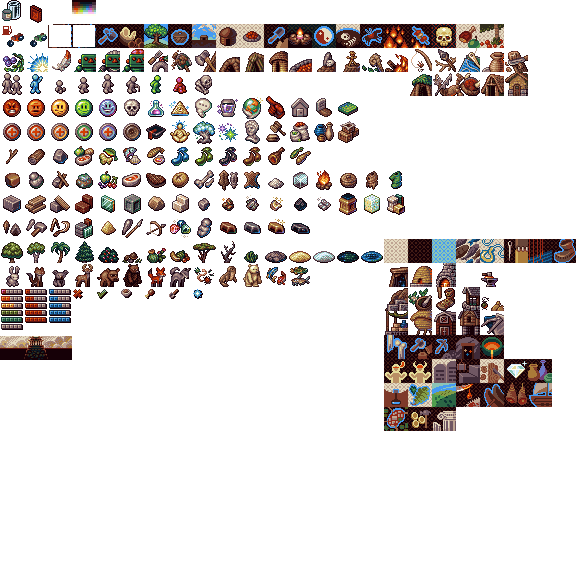
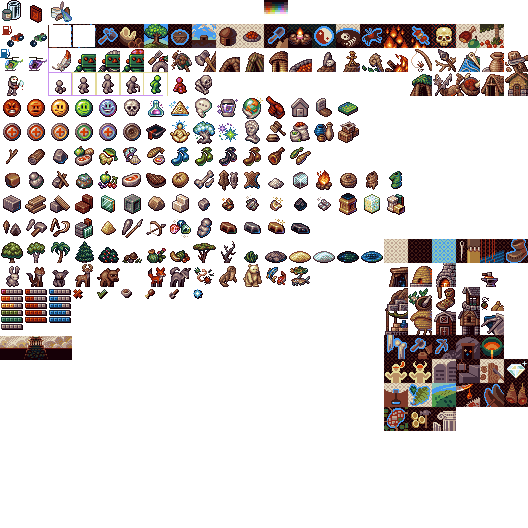
Update js to use ChopperSheet

diff --git a/chopper3.js b/chopper3.js
@@ -5,7 +5,7 @@ desc:'Adds Three different types of Choppers.',
 engineVersion:1,
 manifest:0,
 requires:['Default dataset*'],
-sheets:{'spicySheet':'https://raw.githubusercontent.com/ikyman/Neverending-Legacy-Chopper3/refs/heads/main/img/spicyModIconSheet.png'},//custom stylesheet (note : broken in IE and Edge for the time being)
+sheets:{'chopperSheet':'https://raw.githubusercontent.com/ikyman/Neverending-Legacy-Chopper3/refs/heads/main/img/ChopperSheet.png'},//custom stylesheet (note : broken in IE and Edge for the time being)
 func:function()
 {
 
@@ -20,27 +20,27 @@ func:function()
 		name:'unbladed chopper, no petrol',
 		desc:`A Motorcycle without any fuel on it. If you have a leather jacket, you could snap a pic for the 'gram.\
 		You can't do much else with it until you acquire fuel, I'm afraid.`,
-		icon:[0,0,'spicySheet'],
+		icon:[0,1,'chopperSheet'],
 		category:'vehicles',
 	});	
 	new G.Res({
 		name:'unbladed chopper',
 		desc:"Otherwise known as a 'Motorcycle'.",
-		icon:[0,0,'spicySheet'],
+		icon:[1,1,'chopperSheet'],
 		displayUsed:true,
 		category:'vehicles',
 	});
 	new G.Res({
 		name:'spinning chopper, no petrol',
 		desc:`Give a human enough stiff drinks, they'll become all whirly. Much in the same manner, this whirlybird needs a stiff drink before it goes all whirly.`,
-		icon:[0,0,'spicySheet'],
+		icon:[0,2,'chopperSheet'],
 		category:'vehicles',
 	});	
 
 	new G.Res({
 		name:'spinning chopper',
 		desc:"Otherwise known as a 'Helicopter'.",
-		icon:[0,0,'spicySheet'],
+		icon:[0,2,'chopperSheet'],
 		displayUsed:true,
 		category:'vehicles',
 	});
@@ -48,8 +48,8 @@ func:function()
 	new G.Res({
 		name: "jerry-can",
 		desc: "Full of flammable fluid",
-		icon: [1,1,'spicySheet'],
-		partOf:'vehicles',
+		icon: [1,0,'chopperSheet'],
+		category:'vehicles',
 	});
 
 	new G.Res({
@@ -57,7 +57,7 @@ func:function()
 		desc:"You, sitting on your computer might scoff at the idea of cold beans."+
 		"Your citizens, living a much less comfortable lives, are tickled pink by this acme of gastronomic experience."+
 		"Or, they would be, if they could actually open this oddly shiny cylinder.",
-		icon:[1,0,'spicySheet'],
+		icon:[0,0,'chopperSheet'],
 		turnToByContext:{'eat':{'health':0.01,'happiness':0.1},'decay':{'tinned meal':0.5}},
 		partOf:'food',
 		category:'food',
@@ -116,7 +116,7 @@ func:function()
 	new G.Goods({
 		name:'can stash',
 		desc: 'A [can stash]! Christmas came early!',
-		icon:[8,1],
+		icon:[0,0,"chopperSheet"],
 		res:{
 			'gather':{'tinned meal':1, 'jerry-can': 0.2}
 		}
@@ -124,7 +124,7 @@ func:function()
 	new G.Goods({
 		name:"abandoned motorcycle",
 		desc: "The open road! Freedom! Before the end, it was a siren song.",
-		icon:[8,1],
+		icon:[0,1,'chopperSheet'],
 		res:{
 			'gather':{"unbladed chopper, no petrol": 2, "unbladed chopper":1}
 		}
@@ -132,7 +132,7 @@ func:function()
 	new G.Goods({
 		name:"abandoned helicopter",
 		desc: "Finally, we figure out why all the children are spinning around while T-posing.",
-		icon:[8,1],
+		icon:[0,2,'chopperSheet'],
 		res:{
 			'gather':{"spinning chopper, no petrol": 2, "spinning chopper":0.5}
 		}
